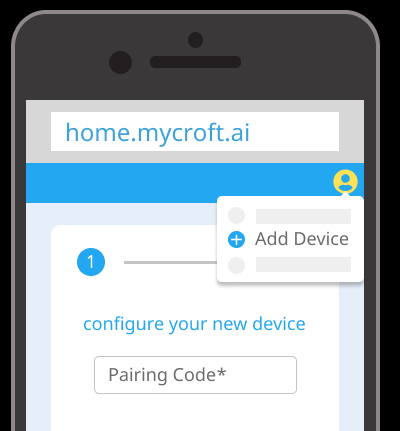
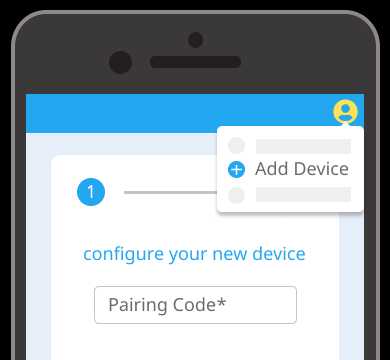
ovos edition

diff --git a/ui/pairing.qml b/ui/pairing.qml
@@ -25,30 +25,74 @@ import Mycroft 1.0 as Mycroft
 Mycroft.Delegate {
     id: root
     property var code: sessionData.code
-    Rectangle {
-        color: "#22a7f0"
-        width: parent.width
-        height: parent.height
-        ColumnLayout {
-            anchors.fill: parent
+    property var txtcolor: sessionData.txtcolor
+    property var backendurl: sessionData.backendurl
+
+    ColumnLayout {
+        anchors.fill: parent
         
-            Text {
-                id: instruction
-                Layout.fillWidth: true
-                Layout.alignment: Qt.AlignLeft
-                horizontalAlignment: Text.AlignHCenter
-                wrapMode: Text.WordWrap
-                elide: Text.ElideRight
-                font.family: "Noto Sans"
-                font.bold: true
-                font.weight: Font.Bold
-                fontSizeMode: Text.HorizontalFit
-                minimumPixelSize: 65
-                font.pixelSize: 80
-                visible: !content.visible
-                color: "white"
-                text: root.code
-            }
+        Kirigami.Heading {
+            id: sentence
+            Layout.fillWidth: true
+            Layout.alignment: Qt.AlignLeft
+            horizontalAlignment: Text.AlignHCenter
+            wrapMode: Text.WordWrap
+            elide: Text.ElideRight
+            font.family: "Noto Sans"
+            font.bold: true
+            font.weight: Font.Bold
+            font.pixelSize: 40
+            visible: !content.visible
+            text: "I'm connected\nand need to be\nactivated, go to"
+        }
+        Kirigami.Heading {
+            id: backendurl
+            Layout.fillWidth: true
+            Layout.alignment: Qt.AlignLeft
+            horizontalAlignment: Text.AlignHCenter
+            wrapMode: Text.WordWrap
+            elide: Text.ElideRight
+            font.family: "Noto Sans"
+            font.bold: true
+            font.weight: Font.Bold
+            font.pixelSize: 40
+            visible: !content.visible
+            color: root.txtcolor
+            text: root.backendurl
+        }
+        Kirigami.Heading {
+            id: entercode
+            Layout.fillWidth: true
+            Layout.alignment: Qt.AlignLeft
+            horizontalAlignment: Text.AlignHCenter
+            wrapMode: Text.WordWrap
+            elide: Text.ElideRight
+            font.family: "Noto Sans"
+            font.bold: true
+            font.weight: Font.Bold
+            font.pixelSize: 40
+            visible: !content.visible
+            text: "Enter the code"
+        }
+         Kirigami.Heading {
+            id: pairingcode
+            Layout.fillWidth: true
+            Layout.alignment: Qt.AlignLeft
+            horizontalAlignment: Text.AlignHCenter
+            wrapMode: Text.WordWrap
+            elide: Text.ElideRight
+            font.family: "Noto Sans"
+            font.bold: true
+            font.weight: Font.Bold
+            font.pixelSize: 40
+            visible: !content.visible
+            color: root.txtcolor
+            text: root.code
+        }
+        Image {
+                id: img
+                source: Qt.resolvedUrl("phone.png")
+                Layout.alignment: Qt.AlignHCenter | Qt.AlignBottom
         }
     }
-}
+}  

diff --git a/ui/status.qml b/ui/status.qml
@@ -1,0 +1,44 @@
+import QtQuick.Layouts 1.4
+import QtQuick 2.4
+import QtQuick.Controls 2.0
+import org.kde.kirigami 2.4 as Kirigami
+
+import Mycroft 1.0 as Mycroft
+
+Mycroft.ProportionalDelegate {
+    id: root
+    skillBackgroundColorOverlay: sessionData.bgColor
+    
+    ColumnLayout {
+        id: grid
+        anchors.centerIn: parent
+
+        Image {
+            id: statusIcon
+            visible: true
+            enabled: true
+            anchors.horizontalCenter: grid.horizontalCenter
+            Layout.preferredWidth: proportionalGridUnit * 50
+            Layout.preferredHeight: proportionalGridUnit * 50
+            source: Qt.resolvedUrl(`icons/${sessionData.icon}`)
+        }
+
+        /* Add some spacing between icon and text */
+        Item {
+            height: Kirigami.Units.largeSpacing
+        }
+
+        Label {
+            id: statusLabel
+            Layout.alignment: Qt.AlignHCenter
+            font.pixelSize: 65
+            wrapMode: Text.WordWrap
+            renderType: Text.NativeRendering
+            font.family: "Noto Sans Display"
+            font.styleName: "Black"
+            font.capitalization: Font.AllUppercase
+            text: sessionData.label
+            color: "white"
+        }
+    }
+}

diff --git a/ui/pairing_start.qml b/ui/pairing_start.qml
@@ -24,7 +24,6 @@ import Mycroft 1.0 as Mycroft
 
 Mycroft.Delegate {
     id: root
-    property var code: sessionData.code
 
     ColumnLayout {
         anchors.fill: parent
@@ -41,27 +40,7 @@ Mycroft.Delegate {
             font.weight: Font.Bold
             font.pixelSize: 40
             visible: !content.visible
-            text: "I'm connected\nand need to be\nactivated, go to"
-        }
-        Kirigami.Heading {
-            id: example1
-            Layout.fillWidth: true
-            Layout.alignment: Qt.AlignLeft
-            horizontalAlignment: Text.AlignHCenter
-            wrapMode: Text.WordWrap
-            elide: Text.ElideRight
-            font.family: "Noto Sans"
-            font.bold: true
-            font.weight: Font.Bold
-            font.pixelSize: 40
-            visible: !content.visible
-            color: "#22a7f0"
-            text: "home.mycroft.ai"
-        }
-        Image {
-                id: img
-                source: Qt.resolvedUrl("phone.png")
-                Layout.alignment: Qt.AlignHCenter | Qt.AlignBottom
+            text: "Wait a moment while i fetch my pairing code"
         }
     }
 }  

diff --git a/__init__.py b/__init__.py
@@ -18,7 +18,7 @@ from uuid import uuid4
 from requests import HTTPError
 
 from adapt.intent import IntentBuilder
-
+from time import sleep
 from mycroft.api import DeviceApi, is_paired, check_remote_pairing
 from mycroft.identity import IdentityManager
 from mycroft.messagebus.message import Message
@@ -31,7 +31,7 @@ PLATFORMS_WITH_BUTTON = ('mycroft_mark_1')
 
 class PairingSkill(MycroftSkill):
 
-    poll_frequency = 10  # secs between checking server for activation
+    poll_frequency = 5  # secs between checking server for activation
 
     def __init__(self):
         super(PairingSkill, self).__init__("PairingSkill")
@@ -54,6 +54,12 @@ class PairingSkill(MycroftSkill):
         self.pairing_performed = False
 
         self.num_failed_codes = 0
+
+        # specific vendors can override this
+        if "pairing_url" not in self.settings:
+            self.settings["pairing_url"] = "home.mycroft.ai"
+        if "color" not in self.settings:
+            self.settings["color"] = "#FF0000"
 
     def initialize(self):
         self.add_event("mycroft.not.paired", self.not_paired)
@@ -129,11 +135,10 @@ class PairingSkill(MycroftSkill):
 
             mycroft.audio.wait_while_speaking()
 
-            self.gui.show_page("pairing_start.qml", override_idle=True)
+            self.show_pairing_start()
             self.speak_dialog("pairing.intro")
 
-            self.enclosure.deactivate_mouth_events()
-            self.enclosure.mouth_text("home.mycroft.ai      ")
+
             # HACK this gives the Mark 1 time to scroll the address and
             # the user time to browse to the website.
             # TODO: mouth_text() really should take an optional parameter
@@ -177,10 +182,7 @@ class PairingSkill(MycroftSkill):
                 # Assume speaking is the pairing code.  Stop TTS of that.
                 mycroft.audio.stop_speaking()
 
-            self.enclosure.activate_mouth_events()  # clears the display
-
-            # Notify the system it is paired
-            self.gui.show_page("pairing_done.qml", override_idle=False)
+            self.show_pairing_success()
             self.bus.emit(Message("mycroft.paired", login))
 
             self.pairing_performed = True
@@ -249,6 +251,7 @@ class PairingSkill(MycroftSkill):
         self.activator = None
         self.data = None  # Clear pairing code info
         self.log.info("Restarting pairing process")
+        self.show_pairing_fail()
         self.bus.emit(Message("mycroft.not.paired",
                               data={'quiet': quiet}))
 
@@ -267,13 +270,41 @@ class PairingSkill(MycroftSkill):
         code = self.data.get("code")
         self.log.info("Pairing code: " + code)
         data = {"code": '. '.join(map(self.nato_dict.get, code)) + '.'}
+        self.show_pairing(self.data.get("code"))
+        self.speak_dialog("pairing.code", data)
 
+    def show_pairing_start(self):
         # Make sure code stays on display
         self.enclosure.deactivate_mouth_events()
-        self.enclosure.mouth_text(self.data.get("code"))
-        self.gui['code'] = self.data.get("code")
+        self.enclosure.mouth_text(self.settings["pairing_url"] + "      ")
+        self.gui.show_page("pairing_start.qml", override_idle=True)
+
+    def show_pairing(self, code):
+        self.gui.remove_page("pairing_start.qml")
+        self.enclosure.deactivate_mouth_events()
+        self.enclosure.mouth_text(code)
+        self.gui["txtcolor"] = self.settings["color"]
+        self.gui["backendurl"] = self.settings["pairing_url"]
+        self.gui["code"] = code
         self.gui.show_page("pairing.qml", override_idle=True)
-        self.speak_dialog("pairing.code", data)
+
+    def show_pairing_success(self):
+        self.enclosure.activate_mouth_events()  # clears the display
+        self.gui.remove_page("pairing.qml")
+        self.gui["icon"] = "check-circle.svg"
+        self.gui["label"] = "Device Paired"
+        self.gui["bgColor"] = "#40DBB0"
+        self.gui.show_page("status.qml", override_idle=True)
+        # allow GUI to linger around for a bit
+        sleep(5)
+        self.gui.release()
+
+    def show_pairing_fail(self):
+        self.gui.release()
+        self.gui["icon"] = "times-circle.svg"
+        self.gui["label"] = "Pairing Failed"
+        self.gui["bgColor"] = "#FF0000"
+        self.gui.show_page("status.qml", override_idle=True)
 
     def shutdown(self):
         with self.activator_lock:
